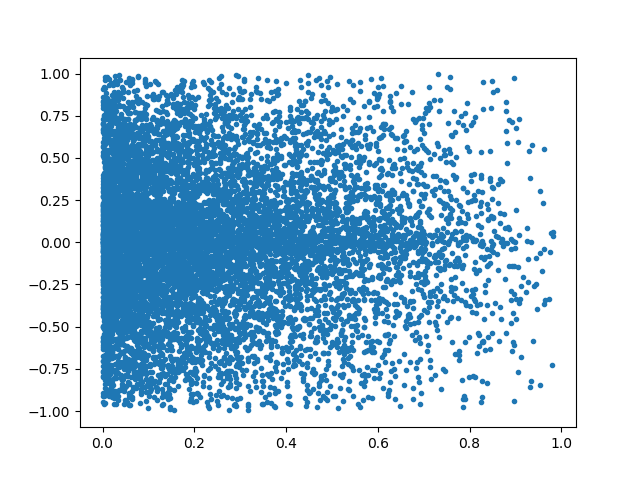
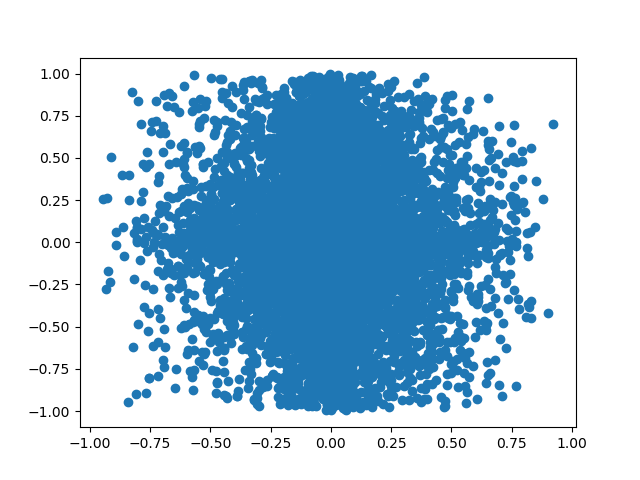
test

diff --git a/HODmodel.py b/HODmodel.py
@@ -74,9 +74,9 @@ def main():
     #print (occupy.cen_coord())
     #print (occupy.satellite())
     sp = sphere(10000)
-    plt.plot(sp.new_position()[1],sp.new_position()[2],'.')
+    plt.plot(sp.new_position()[0],sp.new_position()[2],'o')
     plt.savefig('sphere.png')
-
+    print (sp.new_position()[0])
 
 
 if __name__ == "__main__":
